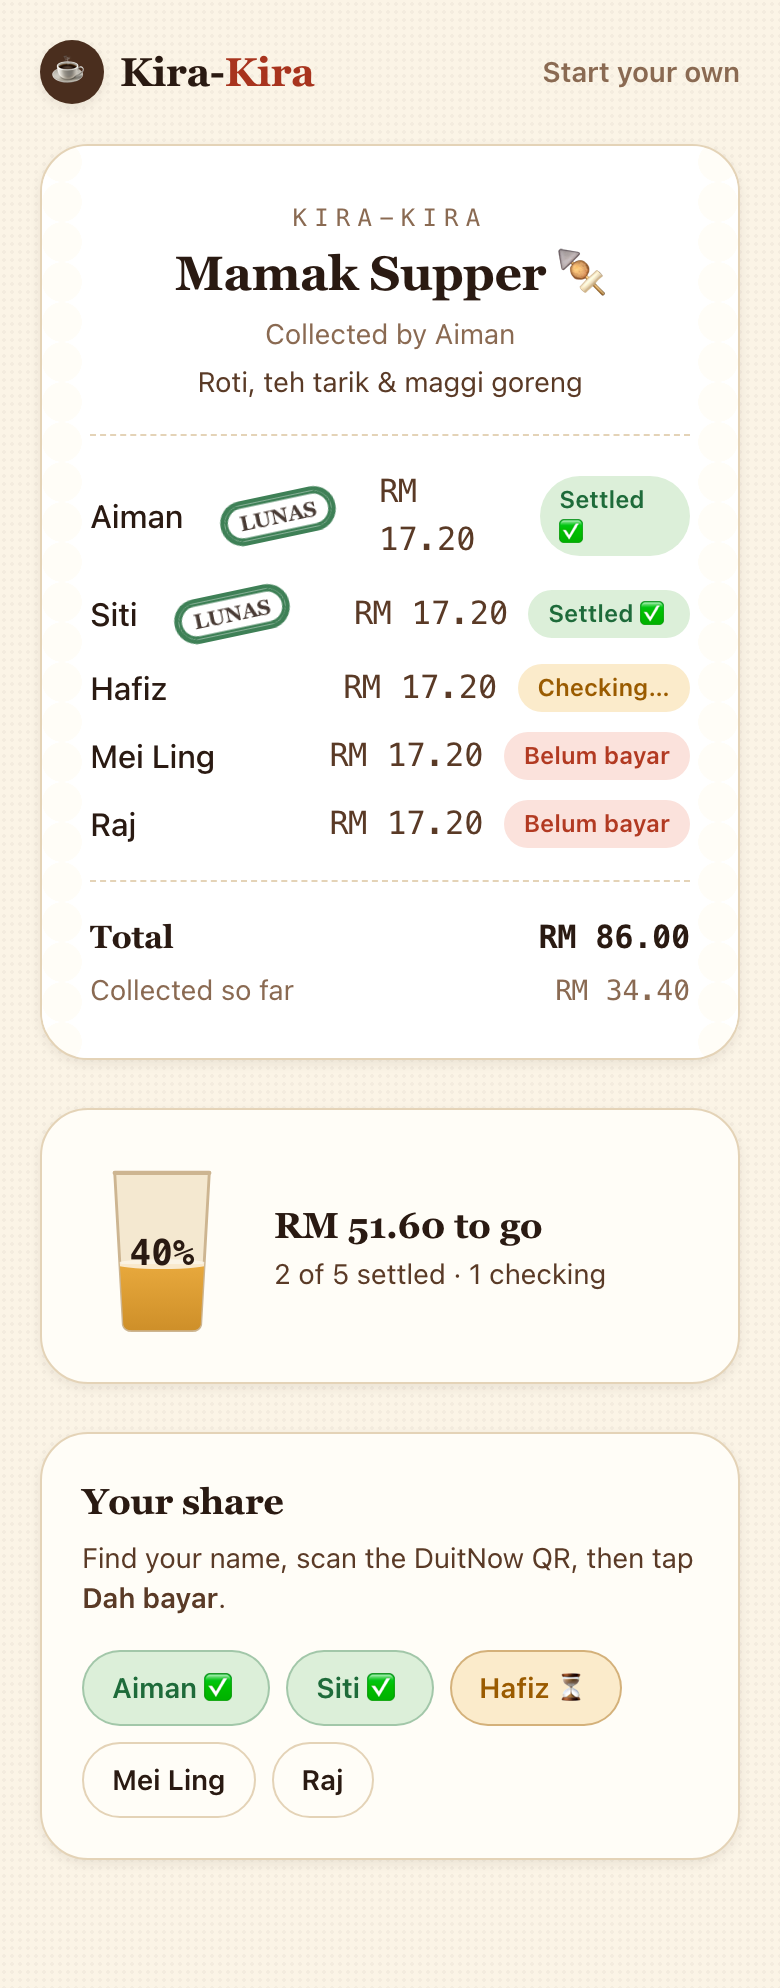
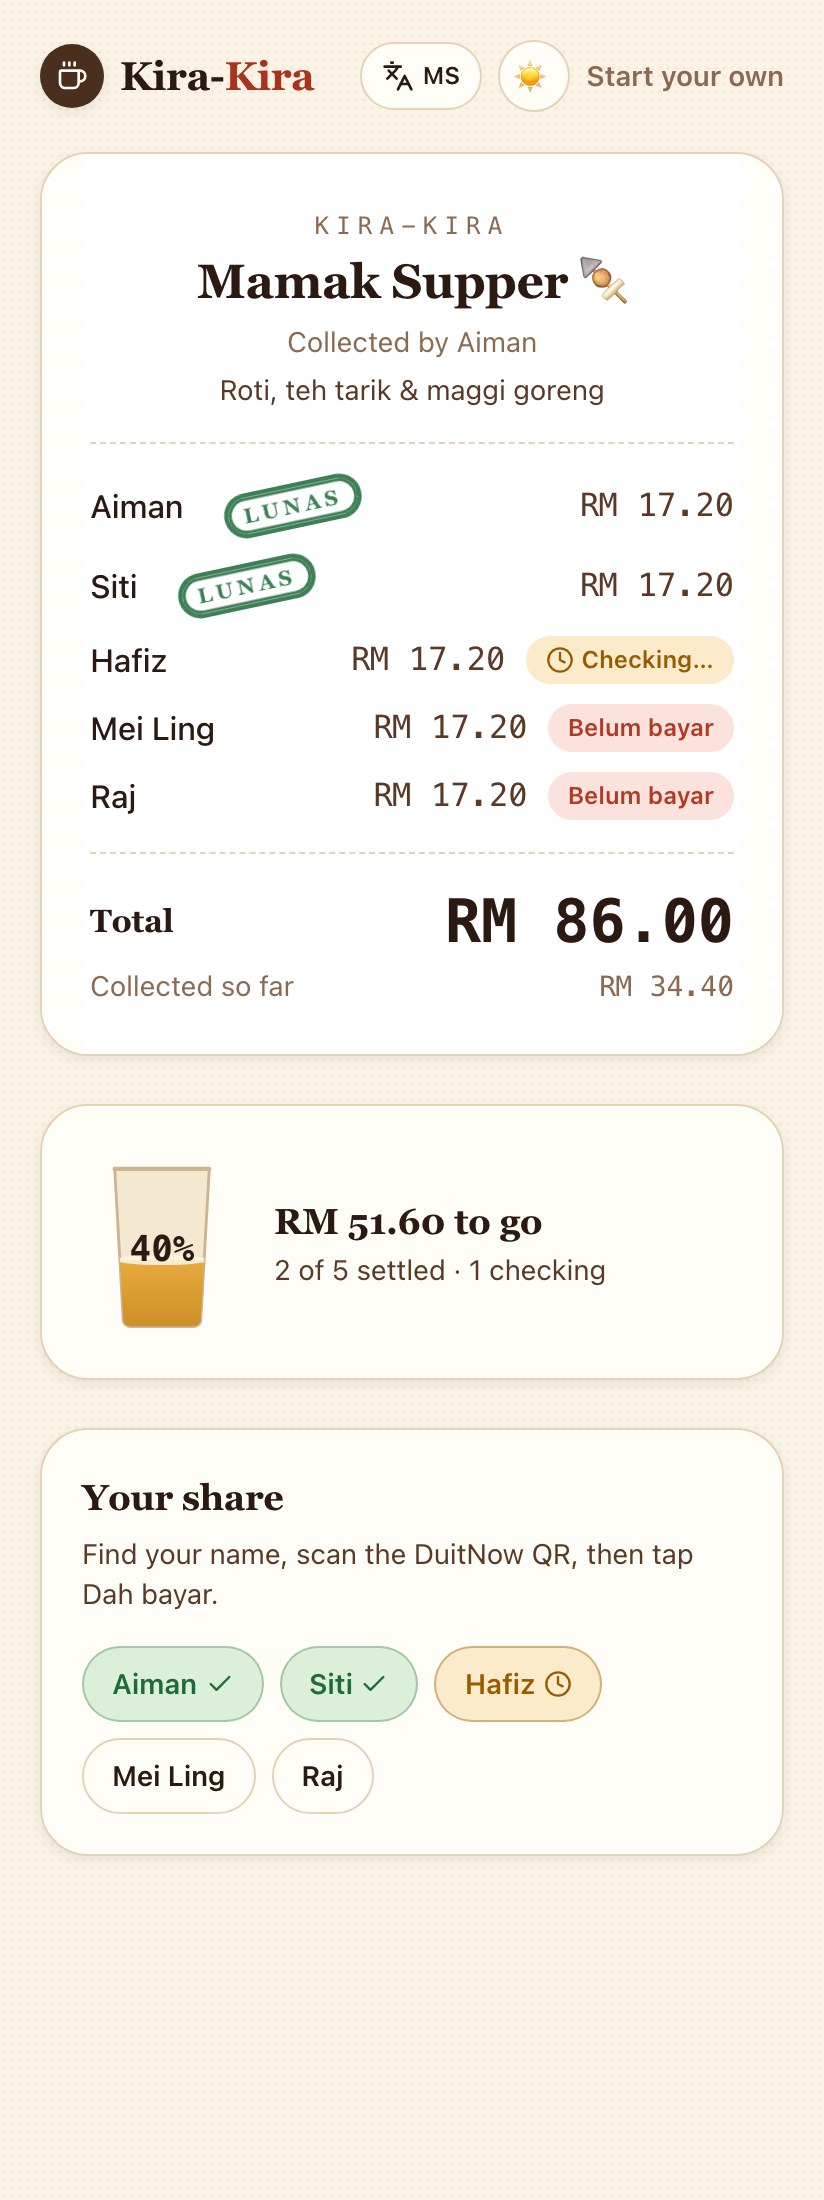
Update README: by-item split + makan dictionary, Manglish/English toggle, PWA; refresh screenshots

Changed region(s): [[0.0308, 0.0, 0.9538, 0.9356], [0.8308, 0.7797, 0.8923, 0.8109]]

diff --git a/README.md b/README.md
@@ -30,11 +30,14 @@ Someone always fronts the bill — for the mamak supper, the Genting trip, the o
 |  | Feature | |
 |---|---|---|
 | 🧾 | **Kopitiam thermal-receipt bill** — every bill renders as a warm makan-shop receipt, with a **LUNAS chop stamp** inked over whoever's settled | *differentiator* |
+| 🍜 | **Split by item, makan-style** — a third split mode with a **makan quick-add dictionary** (roti canai, teh tarik, nasi goreng…). Assign items to people ("the satay's Ali's"), and Kira-Kira computes everyone's fair share and shows the breakdown on the bill | *differentiator* |
 | 💬 | **Stop the chasing** — one tap drafts a warm, Manglish WhatsApp reminder (`wa.me` deep link) for anyone *belum bayar* | *killer* |
 | 📲 | **DuitNow-style QR** — every share comes with a scan-to-pay QR card (simulated for the demo, swap-ready for real) | *killer* |
 | 🫖 | **Teh-tarik progress glass** — collection progress fills a glass of teh; it turns green and pops confetti at 100% | *differentiator* |
+| 🌐 | **Manglish ↔ English toggle** — the public bill page speaks Manglish by default, with a one-tap switch to plain English for the whole group | *local* |
 | 🔗 | **WhatsApp-native sharing** — mobile-first, with a custom per-bill **OG preview card** so the link looks premium in the group chat | *polish* |
 | 📊 | **Organizer dashboard** — total collected, remaining, who's settled / checking / *belum bayar*, confirm & undo | *core* |
+| 📱 | **Installable PWA** — add to home screen, runs standalone, branded splash, dark mode | *polish* |
 
 ---
 
@@ -52,7 +55,7 @@ Someone always fronts the bill — for the mamak supper, the Genting trip, the o
 |---|---|---|
 | RE-01 | Organizer can create a bill | `/create` → `CreateBillForm` |
 | RE-02 | Bill has title, amount, participants, description | create form fields |
-| RE-03 | Equal **or** custom split | split toggle; `splitAmounts()` in `src/lib/db.ts` |
+| RE-03 | Equal **or** custom split (+ **by-item**) | split toggle; `splitAmounts()` / `byItemAmounts()` in `src/lib/db.ts` |
 | RE-04 | Generates a shareable bill/payment link | `/b/[slug]` (unguessable slug) |
 | RE-05 | Members view the bill & confirm payment | `/b/[slug]` → `PayPanel` ("Dah bayar ✅") |
 | RE-06 | Organizer tracks paid / unpaid | `/manage/[token]` → `Dashboard` |
@@ -61,7 +64,7 @@ Someone always fronts the bill — for the mamak supper, the Genting trip, the o
 | RE-09 | Simulated/manual payment accepted | DuitNow QR card + optional screenshot proof |
 | RE-10 | Shareable, premium link preview | dynamic OG image at `/b/[slug]/opengraph-image` |
 
-**Beyond the brief:** WhatsApp auto-reminder templates, LUNAS chop stamp, teh-tarik progress, confetti, payment-screenshot proof upload, bilingual EN/Manglish copy, dark mode.
+**Beyond the brief:** by-item split with a makan-item dictionary, WhatsApp auto-reminder templates, LUNAS chop stamp, teh-tarik progress, confetti, payment-screenshot proof upload, one-tap Manglish↔English toggle, installable PWA, light/dark themes, device-local bill recovery.
 
 ---
 
@@ -94,9 +97,13 @@ src/
     b/[slug]/                public bill receipt + pay + OG image
     manage/[token]/          organizer dashboard
     actions.ts               server actions (create, claim, confirm, upload)
-  lib/                       db (service role), types, money/format, copy deck
-  components/                TehGlass, Stamp, QrCard, StatusBadge, Confetti, …
+  lib/                       db (service role), types, money/format, copy deck,
+                             i18n (Manglish/English), makan dictionary
+  components/                TehGlass, Stamp, QrCard, StatusBadge, Confetti,
+                             LangToggle, ThemeToggle, InstallButton, …
 ```
+
+Schema (`supabase/migrations/`): `bills`, `participants`, `bill_items` (by-item split), plus a public `proofs` storage bucket. RLS on, no public policies.
 
 ---
 